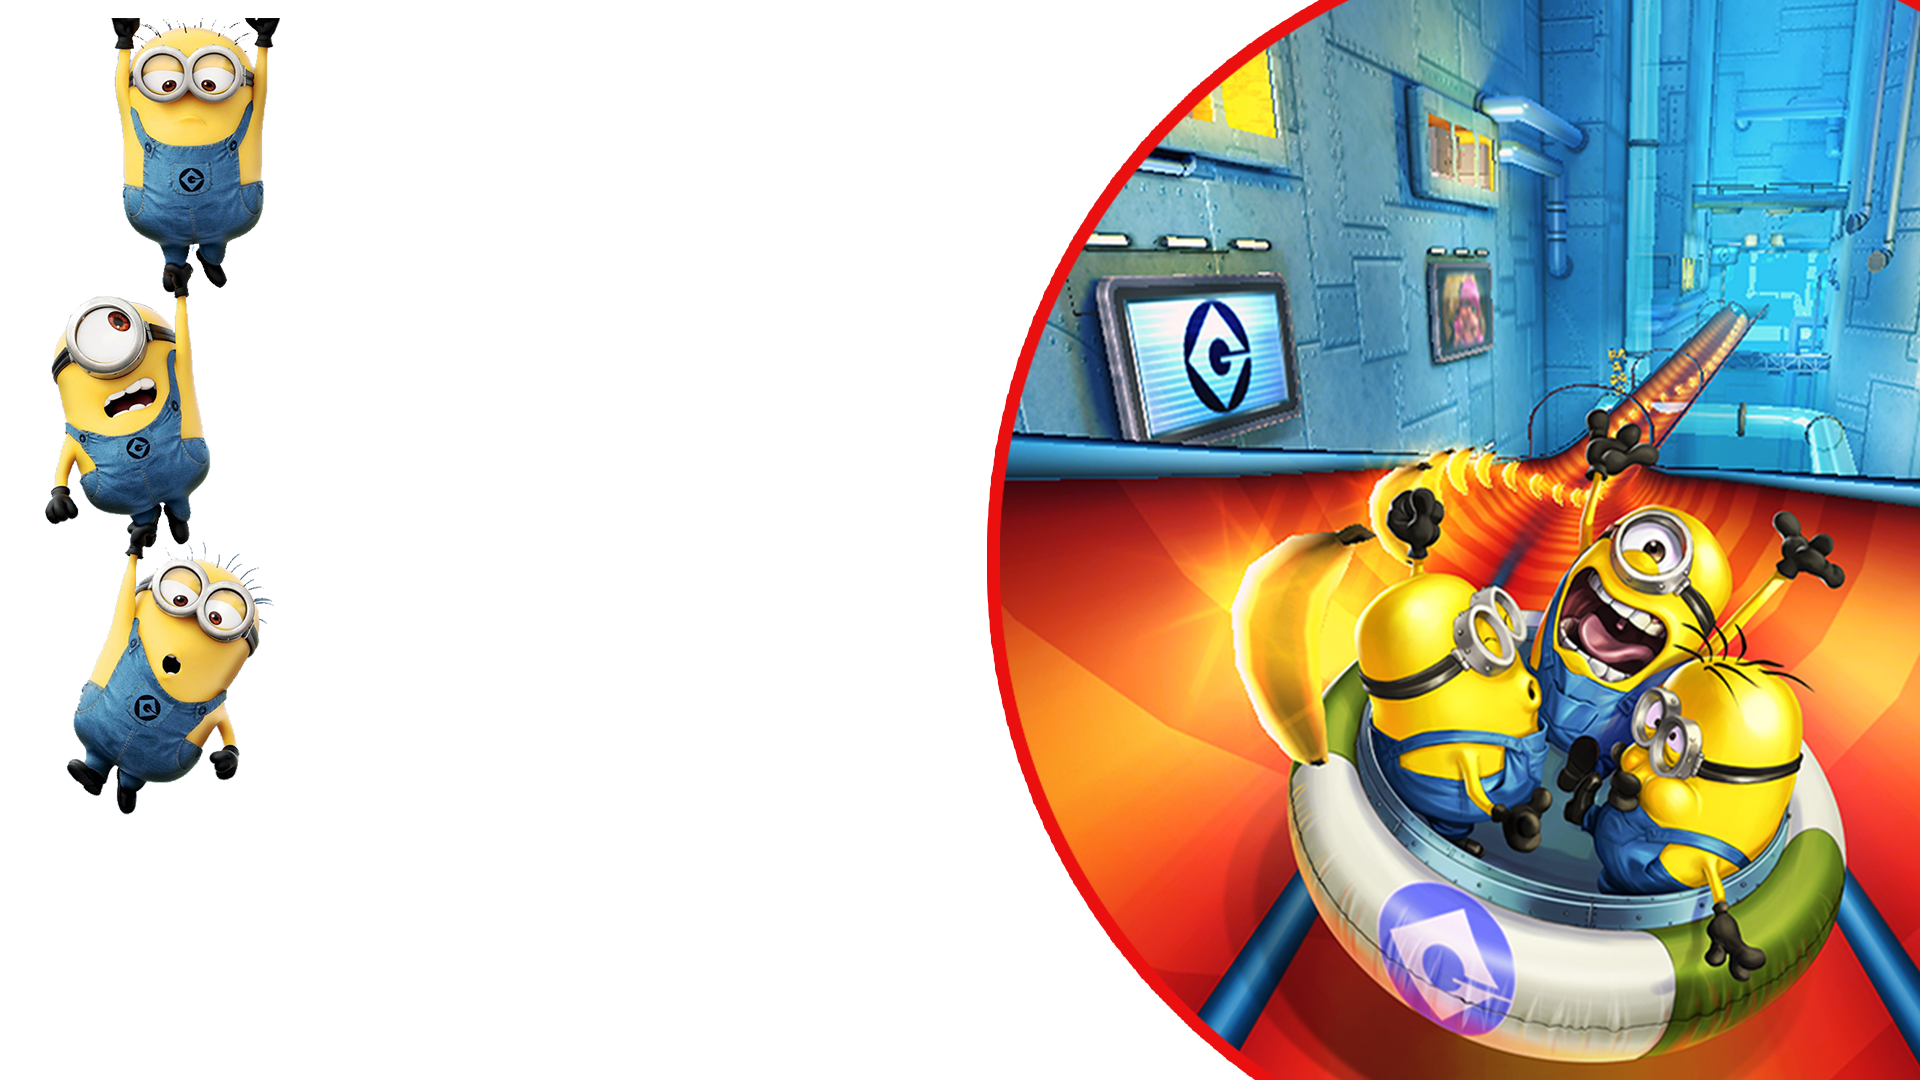
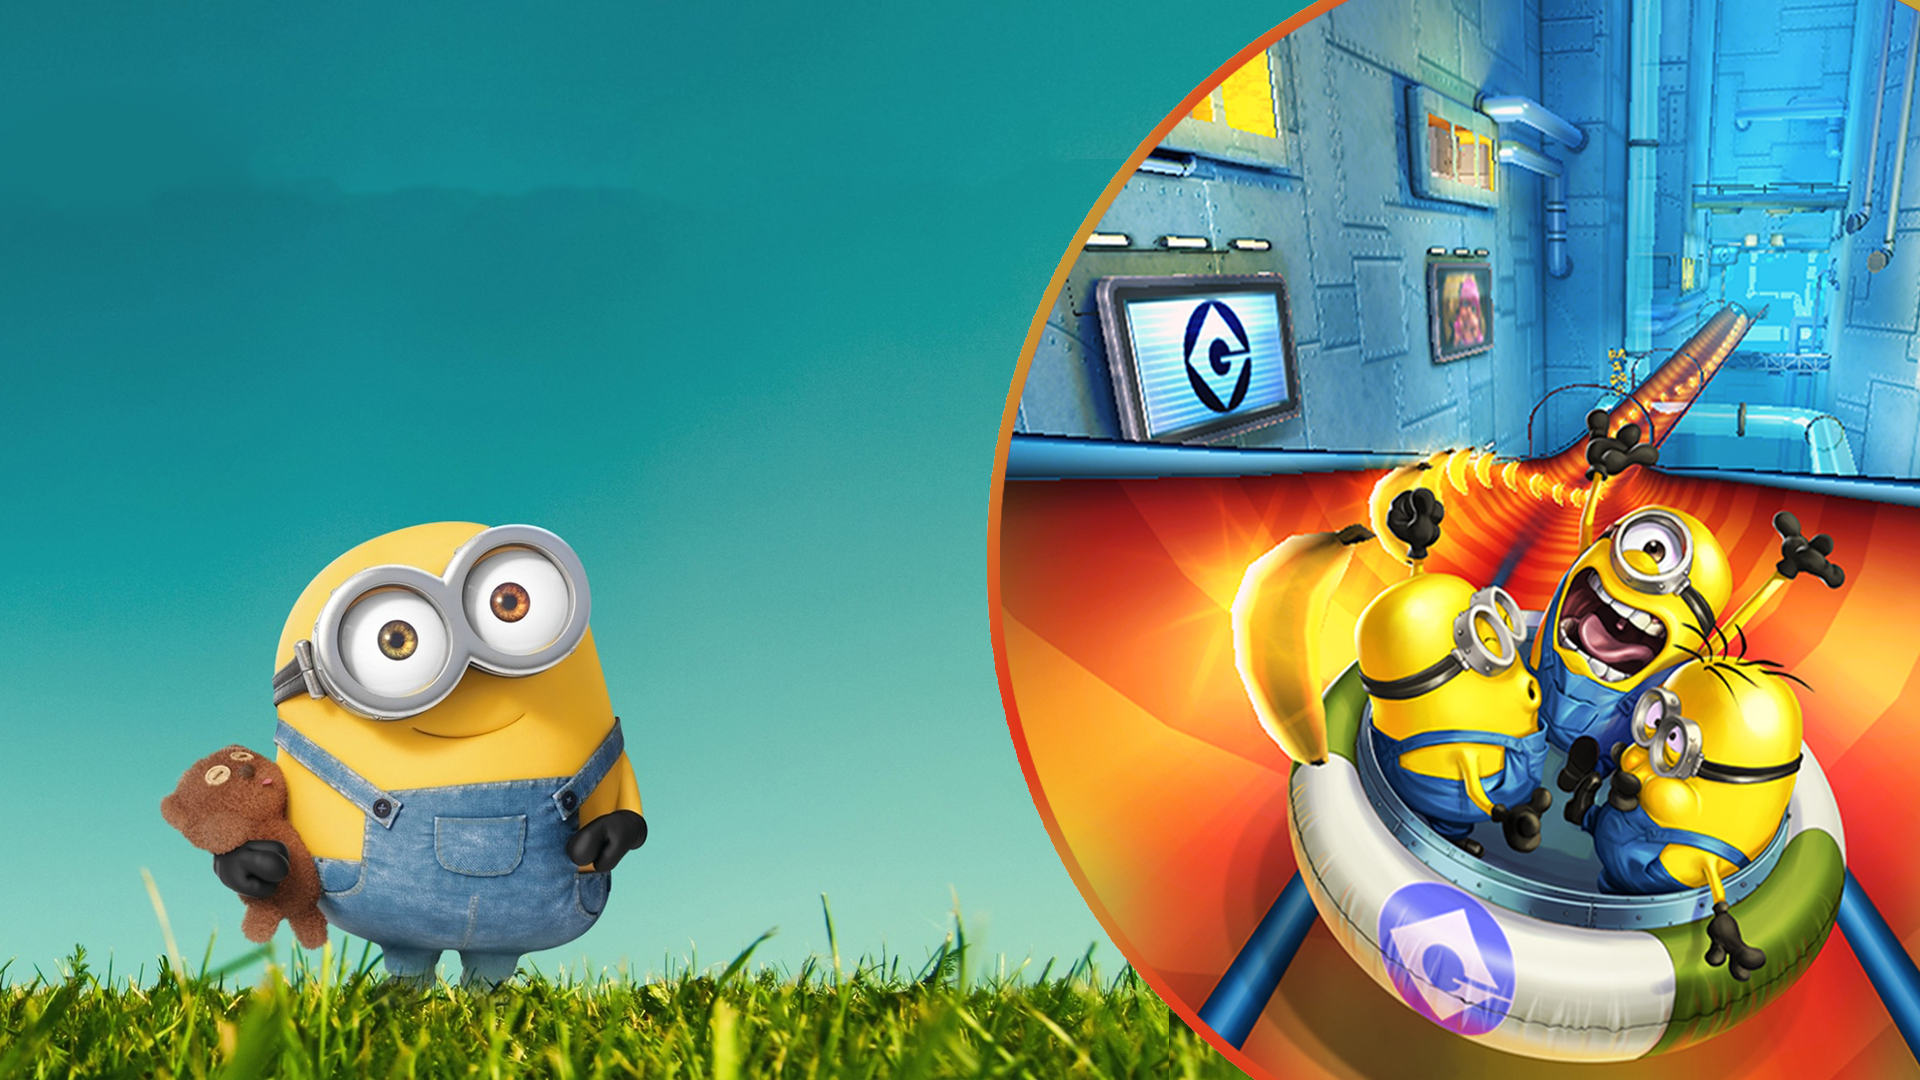
Add files via upload

diff --git a/index.css b/index.css
@@ -1,18 +1,30 @@
-header, #choosehero{
+
+
+header{
     text-align: center;
     font-family: "Impact";
     font-style: normal;
-    color: black;
-    font-size: 120px ;
-    position: absolute;
+    color: orange;
+    font-size: 90px ;
+    position: fixed;
     text-decoration: underline dotted white;
-    text-shadow:0 5px orange;
-  left: 260px;
-  top: 80px;
+    text-shadow:0 5px black;
+  left: 150px;
+  top: 0px;
   }
+  #choosehero{
+    position: relative;
+    left:290;
+    width: 800;
+    top: -180;
+
+  
+  }
+ 
  
   
   body{
+    position: fixed;
  background-image: url("pq.png");
  
  background-position: center; /* Center the image */
@@ -20,13 +32,26 @@ header, #choosehero{
  background-size: cover;
  height: 200px;
  background-attachment: fixed;
+
+}
+
+
+.charbody{
+  position: fixed;
+background-image: url("bg2.jpg");
+
+background-position: center; /* Center the image */
+background-repeat: no-repeat;
+background-size: cover;
+height: 200px;
+background-attachment: fixed;
+
 }
 .levelpage {
-    background-image: url("screen-5.jpg");
-
-    background-size: 35%;
-    background-position: right;
+    background-image: url("bg3.jpg");
     background-attachment: fixed;
+    
+   
 }
 
   .button {
@@ -37,14 +62,14 @@ header, #choosehero{
   color: black;
   cursor: pointer;
   position: absolute;
-  left: 285px;
-  top: 220px;
+  left: 485px;
+  top: 90px;
   font-size: 30px;
     display: inline-block;
     border-radius: 8px;
    
-min-width: 500px;
-min-height: 50px;
+min-width: 170px;
+min-height: 60px;
   } 
   .startbtn{
     
@@ -52,21 +77,20 @@ min-height: 50px;
       }
   .setbtn{
     
-margin-top: 250;
+margin-top: 200;
   }
   .helpbtn{
 
-    margin-top: 150;
+    margin-top: 120;
 
       }
 
 .level1btn{
     background-color:yellow;
-    margin-top: -7;
     position: relative;
-    left: 340px;
+    left: 460px;
     top:300px;
-    min-width: 250px;
+    min-width: 390px;
     
     
 }   
@@ -75,16 +99,16 @@ margin-top: 250;
     background-color:orange;
     margin-top: 85;
     position: absolute;
-    left: 350px;
+    left: 460px;
     top:280px;
-    min-width: 250px;
+    min-width: 390px;
     
       }
       .level3btn{background-color:red;
         position: absolute;
-        left: 350px;
+        left: 460px;
         top:430px;
-        min-width: 250px;
+        min-width: 390px;
        
           }
 
@@ -93,23 +117,26 @@ margin-top: 250;
 
     position: relative;
     left: 25px;
-    top: 450px;
+    top: 550px;
     width: 120px;
     height:55px;
     border-radius: 8px;
     color: white;
     font-size: 25px;
     background-color: red;
+    position: fixed;
 
           }
 #levelspage{
 
-  font-size: 80px;
+  font-size: 100px;
+  left: 400px;
+    top: 30px;
 }
  .backbtn{
 
     position: relative;
-    left: -180px;
+    left: -290px;
     top: 550px;
     width: 120px;
     height:55px;
@@ -123,8 +150,8 @@ margin-top: 250;
    .backbtn2{
 
     position: relative;
-    left: -880px;
-    top: -500px;
+    left:-1050px;
+    top: 260px;
     width: 120px;
     height:55px;
     border-radius: 8px;
@@ -136,7 +163,7 @@ margin-top: 250;
    .nextbtn{
 
     position: relative;
-    left: 350px;
+    left: 580px;
     top: 550px;
     width: 120px;
     height:55px;
@@ -150,55 +177,39 @@ margin-top: 250;
 .nextbtn2{
 
     position: relative;
-    left:190px;
-    top: -500px;
+    left:1s00px;
+    top: 550px;
     width: 120px;
     height:55px;
     border-radius: 8px;
     color: white;
     font-size: 25px;
     background-color: blue;
+    position: fixed;
   }
- #minionGif{
-  position: relative;
-  left: 120px;
-  top: 550px;
-  
- }         
+        
 
  #hero1{
-width:50 px;
+width:10 px;
 height: 300px;
-position: relative;
-left: 625px;
-bottom: -50px;
+left: 825px;
+bottom: -340px;
+position: absolute;
  }
  #hero2{
   width:50 px;
   height: 320px;
   position: relative;
-  left: 140px;
-  bottom: -250px;
+  left: -520px;
+  bottom: -210px;
    }
-.charbody,#helpPage{
+#helpPage{
 
   background-color: white;
   background-image: none;
 }        
 
-#mycanvas{
-  position: relative;
-  left: -20px;
-  bottom: -130px;
 
-}
-
-#mycanvas2{
-  position: relative;
-  left: 10px;
-  top: -370;
-
-}
       
 h1{
 

diff --git a/characters.html b/characters.html
@@ -6,14 +6,12 @@
 </header>
 
 <body class="charbody">
-    <audio src="Elsaware5.mp3" controls="" autoplay="" loop="true" hidden="true">
-        </audio>
+ 
         
         <img id="choosehero"src="choose your hero.png"> 
-        <img id="hero1" src="hero1.gif">
+        <img id="hero1" src="hero1.png">
+        <img id="hero2" src="miniongirl.png">
 
-        <canvas id="myCanvas" width="878" height="500"></canvas>
-        <canvas id="myCanvas2" width="878" height="500"></canvas>
         <button class="nextbtn2">Next</button>
         <button class="backbtn2">Back</button>
         

diff --git a/index.html b/index.html
@@ -4,17 +4,15 @@
 </head>
 <header>
 
-Game Name
+Minions Game
 </header>
 
 <body>
-    <audio src="sabek.mp3" controls="" autoplay="" loop="true" hidden="true">
-        </audio>
     <button class="button startbtn">Start</button>
     <button class="button helpbtn">Help</button>
     <button class="button setbtn">Settings</button>
     <button class=" exitbtn">Exit</button>
-    <img id="minionGif" src=source.gif >
+    
     
     <script src="jquery.js"></script>
     <script type="text/javascript" src="index.js">

diff --git a/chooseLevel.html b/chooseLevel.html
@@ -7,7 +7,7 @@
         Choose Your <br> Level
         </header>
         <body class="levelpage">
-            <audio src="main track.mp3" controls="" autoplay="" loop="true" hidden="true"></audio>
+            
             <button class="button level1btn">Easy</button>
             <button class="button level2btn">Medium</button>
             <button class="button level3btn">Hard</button>
